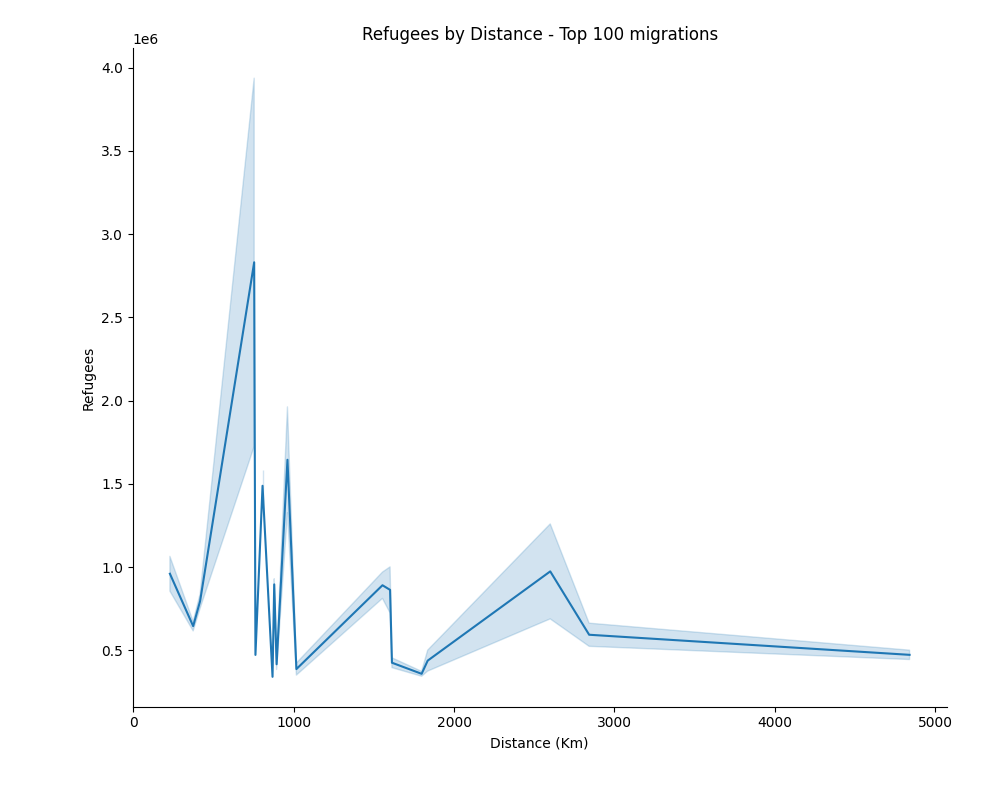
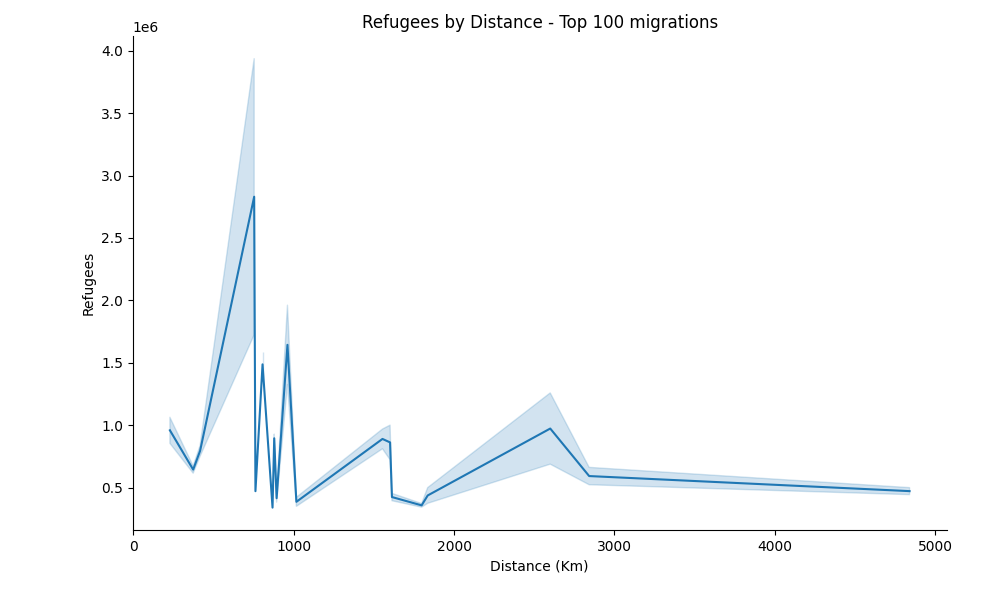
Last version, I promise

diff --git a/analysis.py b/analysis.py
@@ -6,14 +6,20 @@ import matplotlib.pyplot as plt
 data = pd.read_csv('datasets/data.csv')
 
 # Create a .csv with the colunm description
-data.describe().to_csv('datasets/analysis.csv', index=False)
+data.describe().to_csv('datasets/analysis.csv', index=True)
+
+refugees_total = data['Refugees'].sum()
+print("Total Refugees: " + str(refugees_total))
 
 # Create a dataframe only with the top 100 quantity of refugees
 data['Refugees'] = pd.to_numeric(data['Refugees'], errors='coerce')
-data_100 = data[['Year','Country of origin','Country of asylum','Refugees','Origin Region','Asylum Region','Distance (Km)']].sort_values(
-    by=['Refugees'], ascending=False).head(100)
+data_100 = data.sort_values(by=['Refugees'], ascending=False).head(100)
 data_100.to_csv('datasets/analysis2.csv', index=False)
-data_100.describe().to_csv('datasets/analysis3.csv', index=False)
+data_100.describe().to_csv('datasets/analysis3.csv', index=True)
+
+refugees_total_100 = data_100['Refugees'].sum()
+print("Total Refugees in Top 100: " + str(refugees_total_100))
+print("Proportion of Refugees in Top 100: " + str(refugees_total_100/refugees_total))
 
 # Plot a graph with the Refugees by year
 plt.figure(figsize=(14, 6))
@@ -39,17 +45,15 @@ plt.yscale("linear")
 plt.savefig('figures/relplot_year_refugees_with_asylum_region.png')
 
 # Plot a graph with the Refugees by Distance for the top 100
-plt.figure(figsize=(14, 6))
 g = sns.relplot(data=data_100, x="Distance (Km)", y="Refugees", kind="line", errorbar="sd")
 g.ax.set_title("Refugees by Distance - Top 100 migrations")
-g.fig.set_figheight(8)
+g.fig.set_figheight(6)
 g.fig.set_figwidth(10)
 plt.savefig('figures/relplot_100_distance_refugees.png')
 
 # Plot a graph with the Refugees by Distance for all data
-plt.figure(figsize=(14, 6))
 g = sns.relplot(data=data, x="Distance (Km)", y="Refugees", kind="line", errorbar="sd")
 g.ax.set_title("Refugees by Distance - Complete Data")
-g.fig.set_figheight(8)
+g.fig.set_figheight(6)
 g.fig.set_figwidth(10)
 plt.savefig('figures/relplot_complete_distance_refugees.png')
